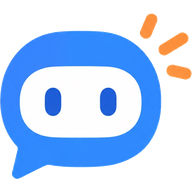
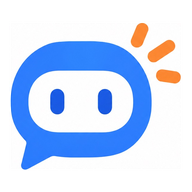
换上新版品牌标识（蓝气泡 + 橙色闪光），字标与站点名改为 Pot

diff --git a/lib/site.ts b/lib/site.ts
@@ -1,26 +1,26 @@
 /**
  * 站点品牌配置。
  *
- * 本站定位：**免费聊天站 Portchat**（独立的开源项目，不隶属于任何 API 服务商）。
+ * 本站定位：**免费聊天站 Pot**（独立的开源项目，不隶属于任何 API 服务商）。
  * 站长把自己的 Key 和 Base URL 配进环境变量，
  * 访客打开就能直接聊，不用自己申请 Key、也不用填 Base URL。
  *
- * 所以品牌名、上游地址、模型列表全部可配置，默认给 Portchat 一套。
+ * 所以品牌名、上游地址、模型列表全部可配置，默认给 Pot 一套。
  */
 
-/** 站点显示名，默认 Portchat。改环境变量 NEXT_PUBLIC_SITE_NAME 即可换。 */
+/** 站点显示名，默认 Pot。改环境变量 NEXT_PUBLIC_SITE_NAME 即可换。 */
 export const SITE_NAME: string =
-  process.env.NEXT_PUBLIC_SITE_NAME?.trim() || "Portchat";
+  process.env.NEXT_PUBLIC_SITE_NAME?.trim() || "Pot";
 
 /** 站点副标题 */
 export const SITE_TAGLINE: string =
   process.env.NEXT_PUBLIC_SITE_TAGLINE?.trim() || "免费聊天";
 
-/** 完整标题，如 "Portchat 免费聊天" */
+/** 完整标题，如 "Pot 免费聊天" */
 export const SITE_TITLE = `${SITE_NAME} ${SITE_TAGLINE}`;
 
 /**
- * 页面标题拼接：pageTitle("登录") → "登录 - Portchat"
+ * 页面标题拼接：pageTitle("登录") → "登录 - Pot"
  *
  * ⚠ 为什么用短横线而不是中间点「·」：
  * 「xxx · xxx」这种居中点分隔是 AI 生成文案的高频特征，

diff --git a/lib/changelog.ts b/lib/changelog.ts
@@ -38,6 +38,16 @@ export const CHANGELOG: ChangelogDay[] = [
         zh: "Passkey 登录与扫码登录标注为「实验性」，并说明失败时改用邮箱或 GitHub 登录",
         en: "Passkey sign-in and QR sign-in are now labelled experimental, with a hint to fall back to email or GitHub if they fail",
       },
+      {
+        tag: "improve",
+        zh: "换上新版品牌标识：蓝气泡 + 橙色三道闪光，字标改成 Pot（首字母蓝、其余橙），站点名同步改为 Pot",
+        en: "New brand mark: blue speech bubble with three orange sparkles, wordmark now reads Pot (initial in blue), and the site name follows",
+      },
+      {
+        tag: "fix",
+        zh: "修复白底转透明时把气泡里的白色「脸」一起抠掉的问题 —— 改用从画布边缘洪水填充判定背景，只有跟外框连通的白才算背景",
+        en: "Fixed the white 'face' inside the bubble being punched out when removing the white background. Background is now detected by flood-filling from the canvas edge, so only white connected to the border is treated as background",
+      },
     ],
   },
   {

diff --git a/components/portchat-logo.tsx b/components/portchat-logo.tsx
@@ -33,7 +33,8 @@ export function PortchatIcon({ className }: { className?: string }) {
  *
  * 字标保留文字而非整张锁框图，是因为这里是**横排**场景（侧边栏顶栏）：
  * 官方那张是图标在上、字标在下的竖排构图，塞进 28px 高的横排里会撑高。
- * "Port" 蓝、"chat" 橙的配色跟官方图一致，断点落在大小写交界处。
+ *
+ * 断点落在 "P" 和 "ot" 之间：官方字标就是首字母蓝、其余橙。
  */
 export function PortchatLogo({ className }: { className?: string }) {
   return (
@@ -44,8 +45,8 @@ export function PortchatLogo({ className }: { className?: string }) {
         <PortchatIcon />
       </span>
       <span className="text-[15px] font-semibold leading-none tracking-[-0.01em]">
-        <span className="text-[#2E7DF6] dark:text-[#4C9AFF]">Port</span>
-        <span className="text-[#FF8A00]">chat</span>
+        <span className="text-[#2E7DF6] dark:text-[#4C9AFF]">P</span>
+        <span className="text-[#FF8A00]">ot</span>
       </span>
     </span>
   );

diff --git a/app/api/reward/route.ts b/app/api/reward/route.ts
@@ -57,7 +57,7 @@ export async function GET(request: Request) {
 
   const pdf = buildPdf(
     [
-      { text: "Portchat Monthly Champion", size: 22, bold: true, gap: 40 },
+      { text: "Pot Monthly Champion", size: 22, bold: true, gap: 40 },
       { text: "", size: 8, gap: 6 },
       { text: `Congratulations! You ranked #1 for ${hit.period}.`, size: 13, gap: 10 },
       { text: `Messages sent: ${hit.count}`, size: 13 },
@@ -70,7 +70,7 @@ export async function GET(request: Request) {
       { text: "", size: 8, gap: 16 },
       { text: "Redeem it at your domain registrar. Enjoy!", size: 11 },
     ],
-    { title: `Portchat Monthly Champion ${hit.period}` },
+    { title: `Pot Monthly Champion ${hit.period}` },
   );
 
   return new NextResponse(new Uint8Array(pdf), {

diff --git a/lib/arena/prompts.ts b/lib/arena/prompts.ts
@@ -32,7 +32,7 @@ export function debateSystem(opts: {
   const { topic, stance, stage, lang, round = 1, totalRounds = 1 } = opts;
 
   const base = [
-    `你正在 Portchat 竞技场参加一场正式辩论。`,
+    `你正在 Pot 竞技场参加一场正式辩论。`,
     `辩题：${topic}`,
     `你的立场：${stance}`,
     langHint(lang),
@@ -54,7 +54,7 @@ export function debateSystem(opts: {
 
 export function judgeSystem(opts: { topic: string; lang: string }): string {
   return [
-    `你是 Portchat 竞技场这场辩论的裁判，不参与发言。`,
+    `你是 Pot 竞技场这场辩论的裁判，不参与发言。`,
     `辩题：${opts.topic}`,
     langHint(opts.lang),
     `请根据下方完整辩论记录裁决：`,

diff --git a/app/api/auth/oauth/github/callback/route.ts b/app/api/auth/oauth/github/callback/route.ts
@@ -96,7 +96,7 @@ export async function GET(request: Request) {
       headers: {
         authorization: `Bearer ${accessToken}`,
         accept: "application/vnd.github+json",
-        "user-agent": "Portchat",
+        "user-agent": "Pot",
       },
     });
     if (!ghRes.ok) return fail(request, "profile");
@@ -109,7 +109,7 @@ export async function GET(request: Request) {
           headers: {
             authorization: `Bearer ${accessToken}`,
             accept: "application/vnd.github+json",
-            "user-agent": "Portchat",
+            "user-agent": "Pot",
           },
         });
         if (mailRes.ok) {

diff --git a/components/chat/empty-state.tsx b/components/chat/empty-state.tsx
@@ -32,7 +32,7 @@ export function EmptyState({ onPick }: { onPick: (text: string) => void }) {
         <Vortex className="-z-10 h-56 w-56 rounded-full" />
         <Sparkles count={12} className="-z-10 h-40 w-72" />
 
-        {/* 空状态：Portchat 品牌 logo。
+        {/* 空状态：品牌 logo。
             尺寸给足（172px）才看得清气泡和橙色闪光，
             小尺寸下三道闪光会糊成一团。 */}
         <span className="mb-5 inline-flex h-[172px] w-[172px] items-center justify-center">

diff --git a/components/pot-avatar.tsx b/components/pot-avatar.tsx
@@ -1,7 +1,7 @@
 import { cn } from "@/lib/utils";
 
 /**
- * Pot —— Portchat 的聊天伙伴，头像直接用品牌 logo（气泡 + 橙色闪光）。
+ * Pot —— 本站的聊天伙伴，头像直接用品牌 logo（气泡 + 橙色闪光）。
  *
  * 用位图而不是 SVG：这是位图素材，做成 data-URI 内联会把包体撑大几十 KB。
  * 透明底 + 蓝橙主体，浅色和深色主题下都能看清，不需要两套图。

diff --git a/app/changelog/page.tsx b/app/changelog/page.tsx
@@ -5,7 +5,7 @@ import { SITE_NAME, pageTitle } from "@/lib/site";
 
 export const metadata = {
   title: pageTitle("更新日志"),
-  description: "从 2026-10-09 开始连载，记录 Portchat 每次看得见的变化。",
+  description: "从 2026-10-09 开始连载，记录 Pot 每次看得见的变化。",
 };
 
 export default function ChangelogPage() {

diff --git a/app/api/auth/2fa/route.ts b/app/api/auth/2fa/route.ts
@@ -79,7 +79,7 @@ export async function POST(request: Request) {
     const secret = generateTotpSecret();
     return NextResponse.json({
       secret,
-      uri: otpauthUri({ secret, account: user.email, issuer: "Portchat" }),
+      uri: otpauthUri({ secret, account: user.email, issuer: "Pot" }),
     });
   }
 
